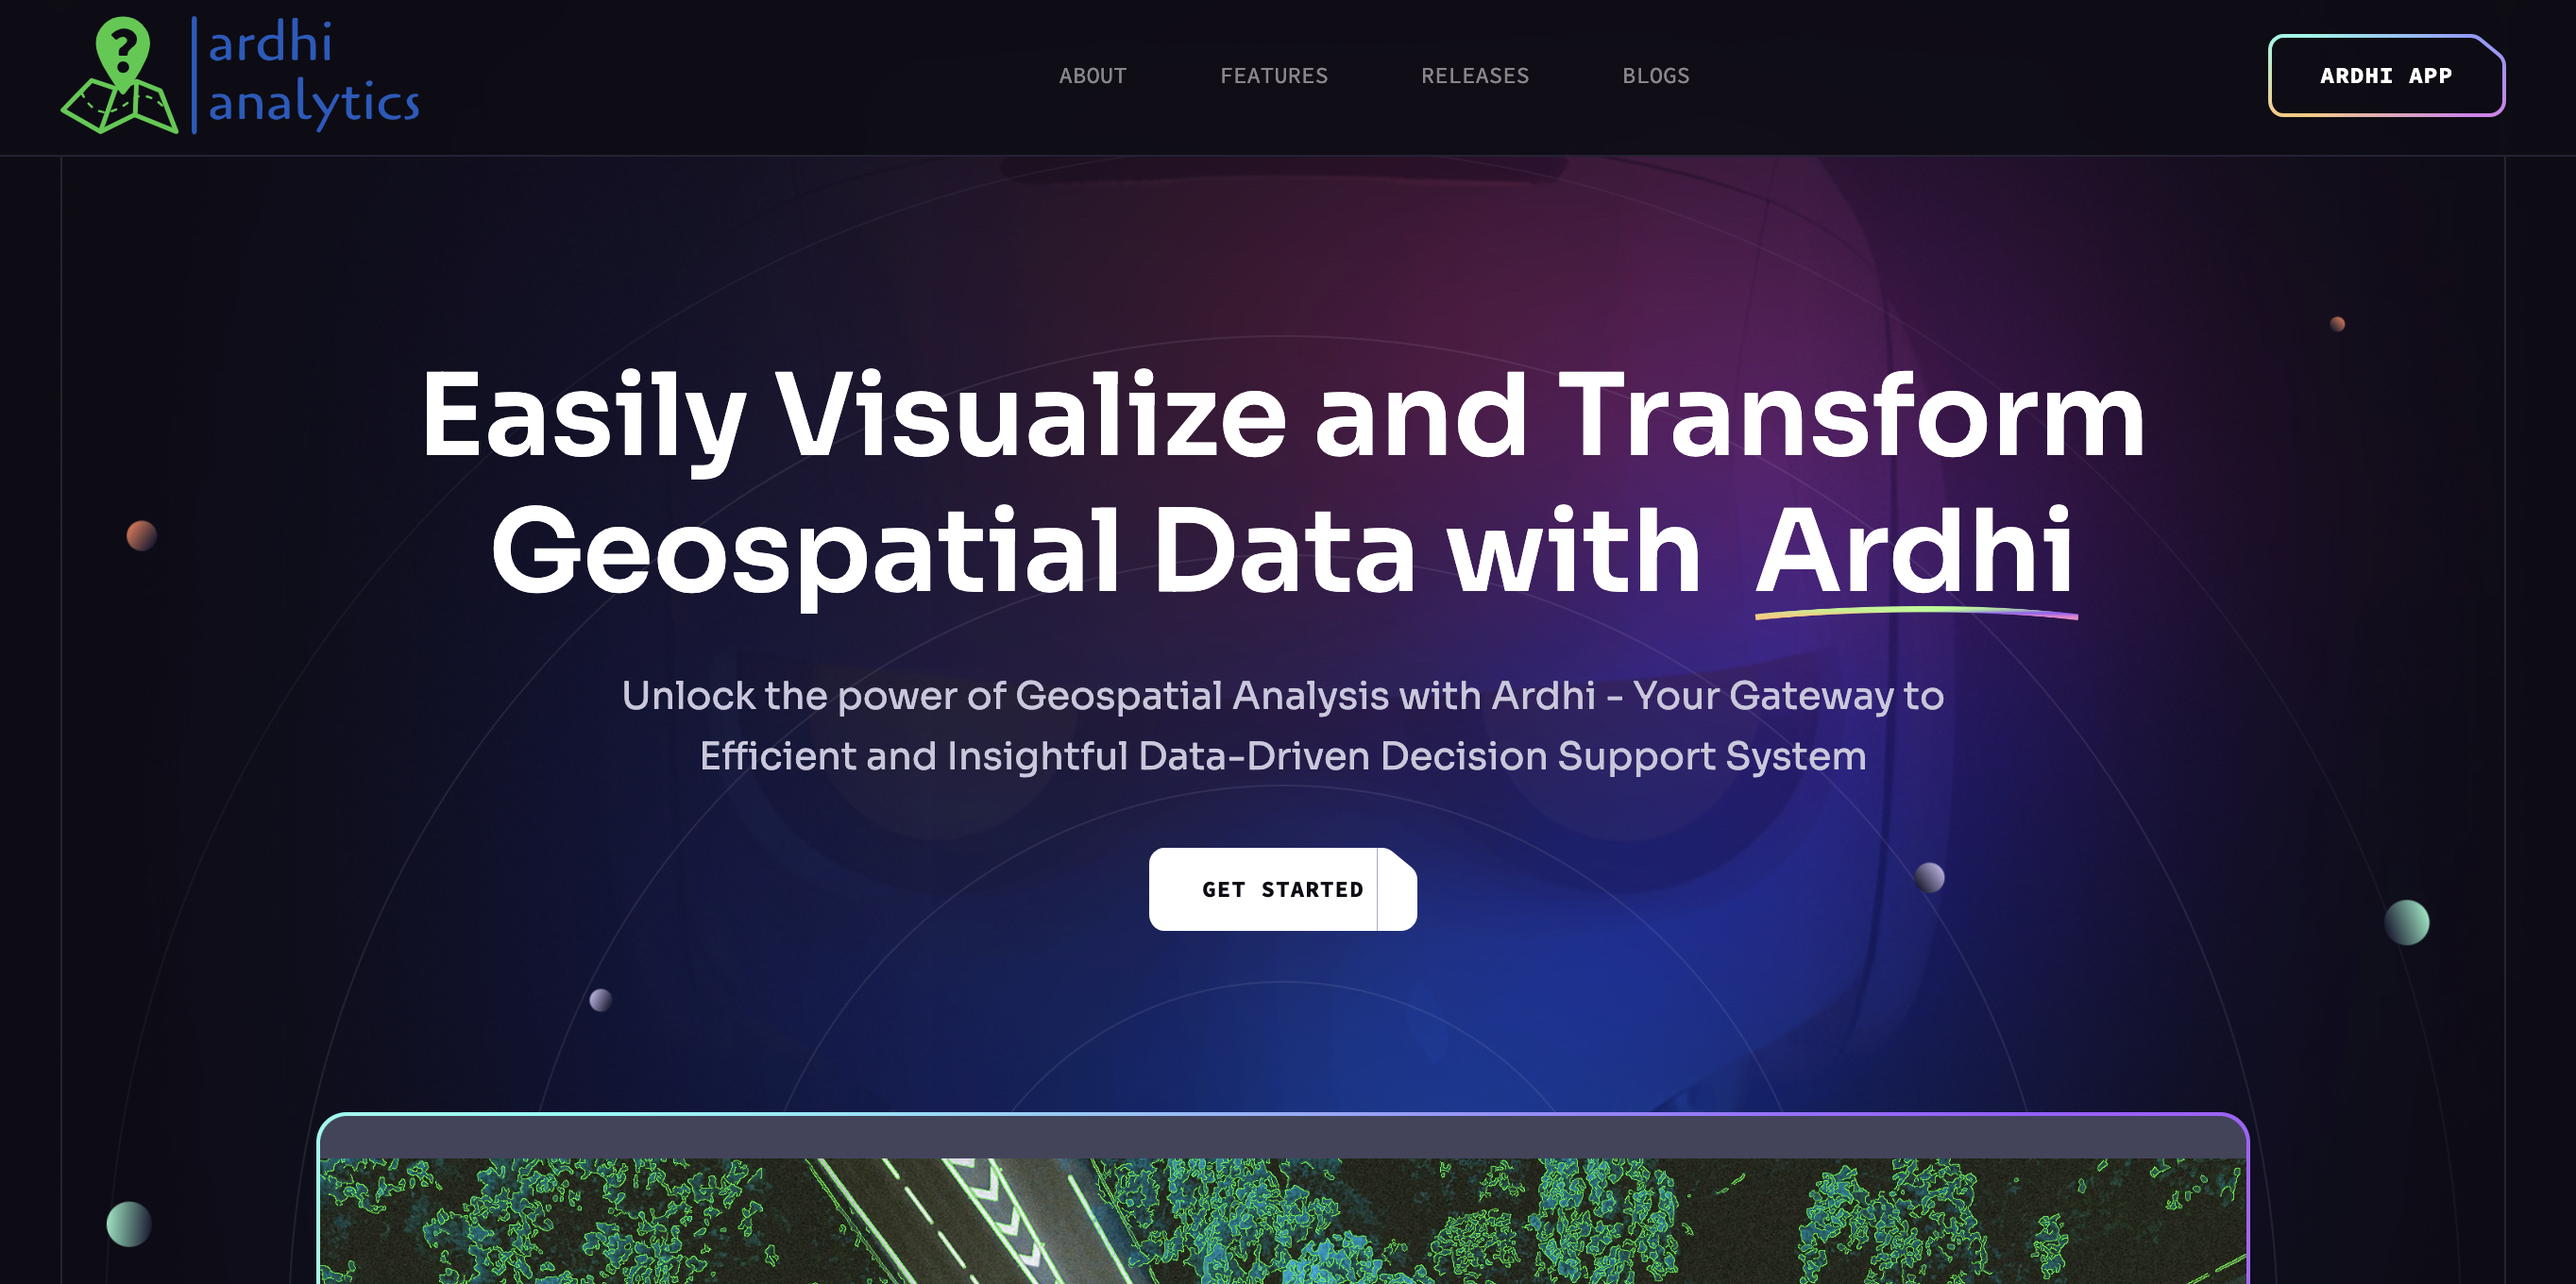
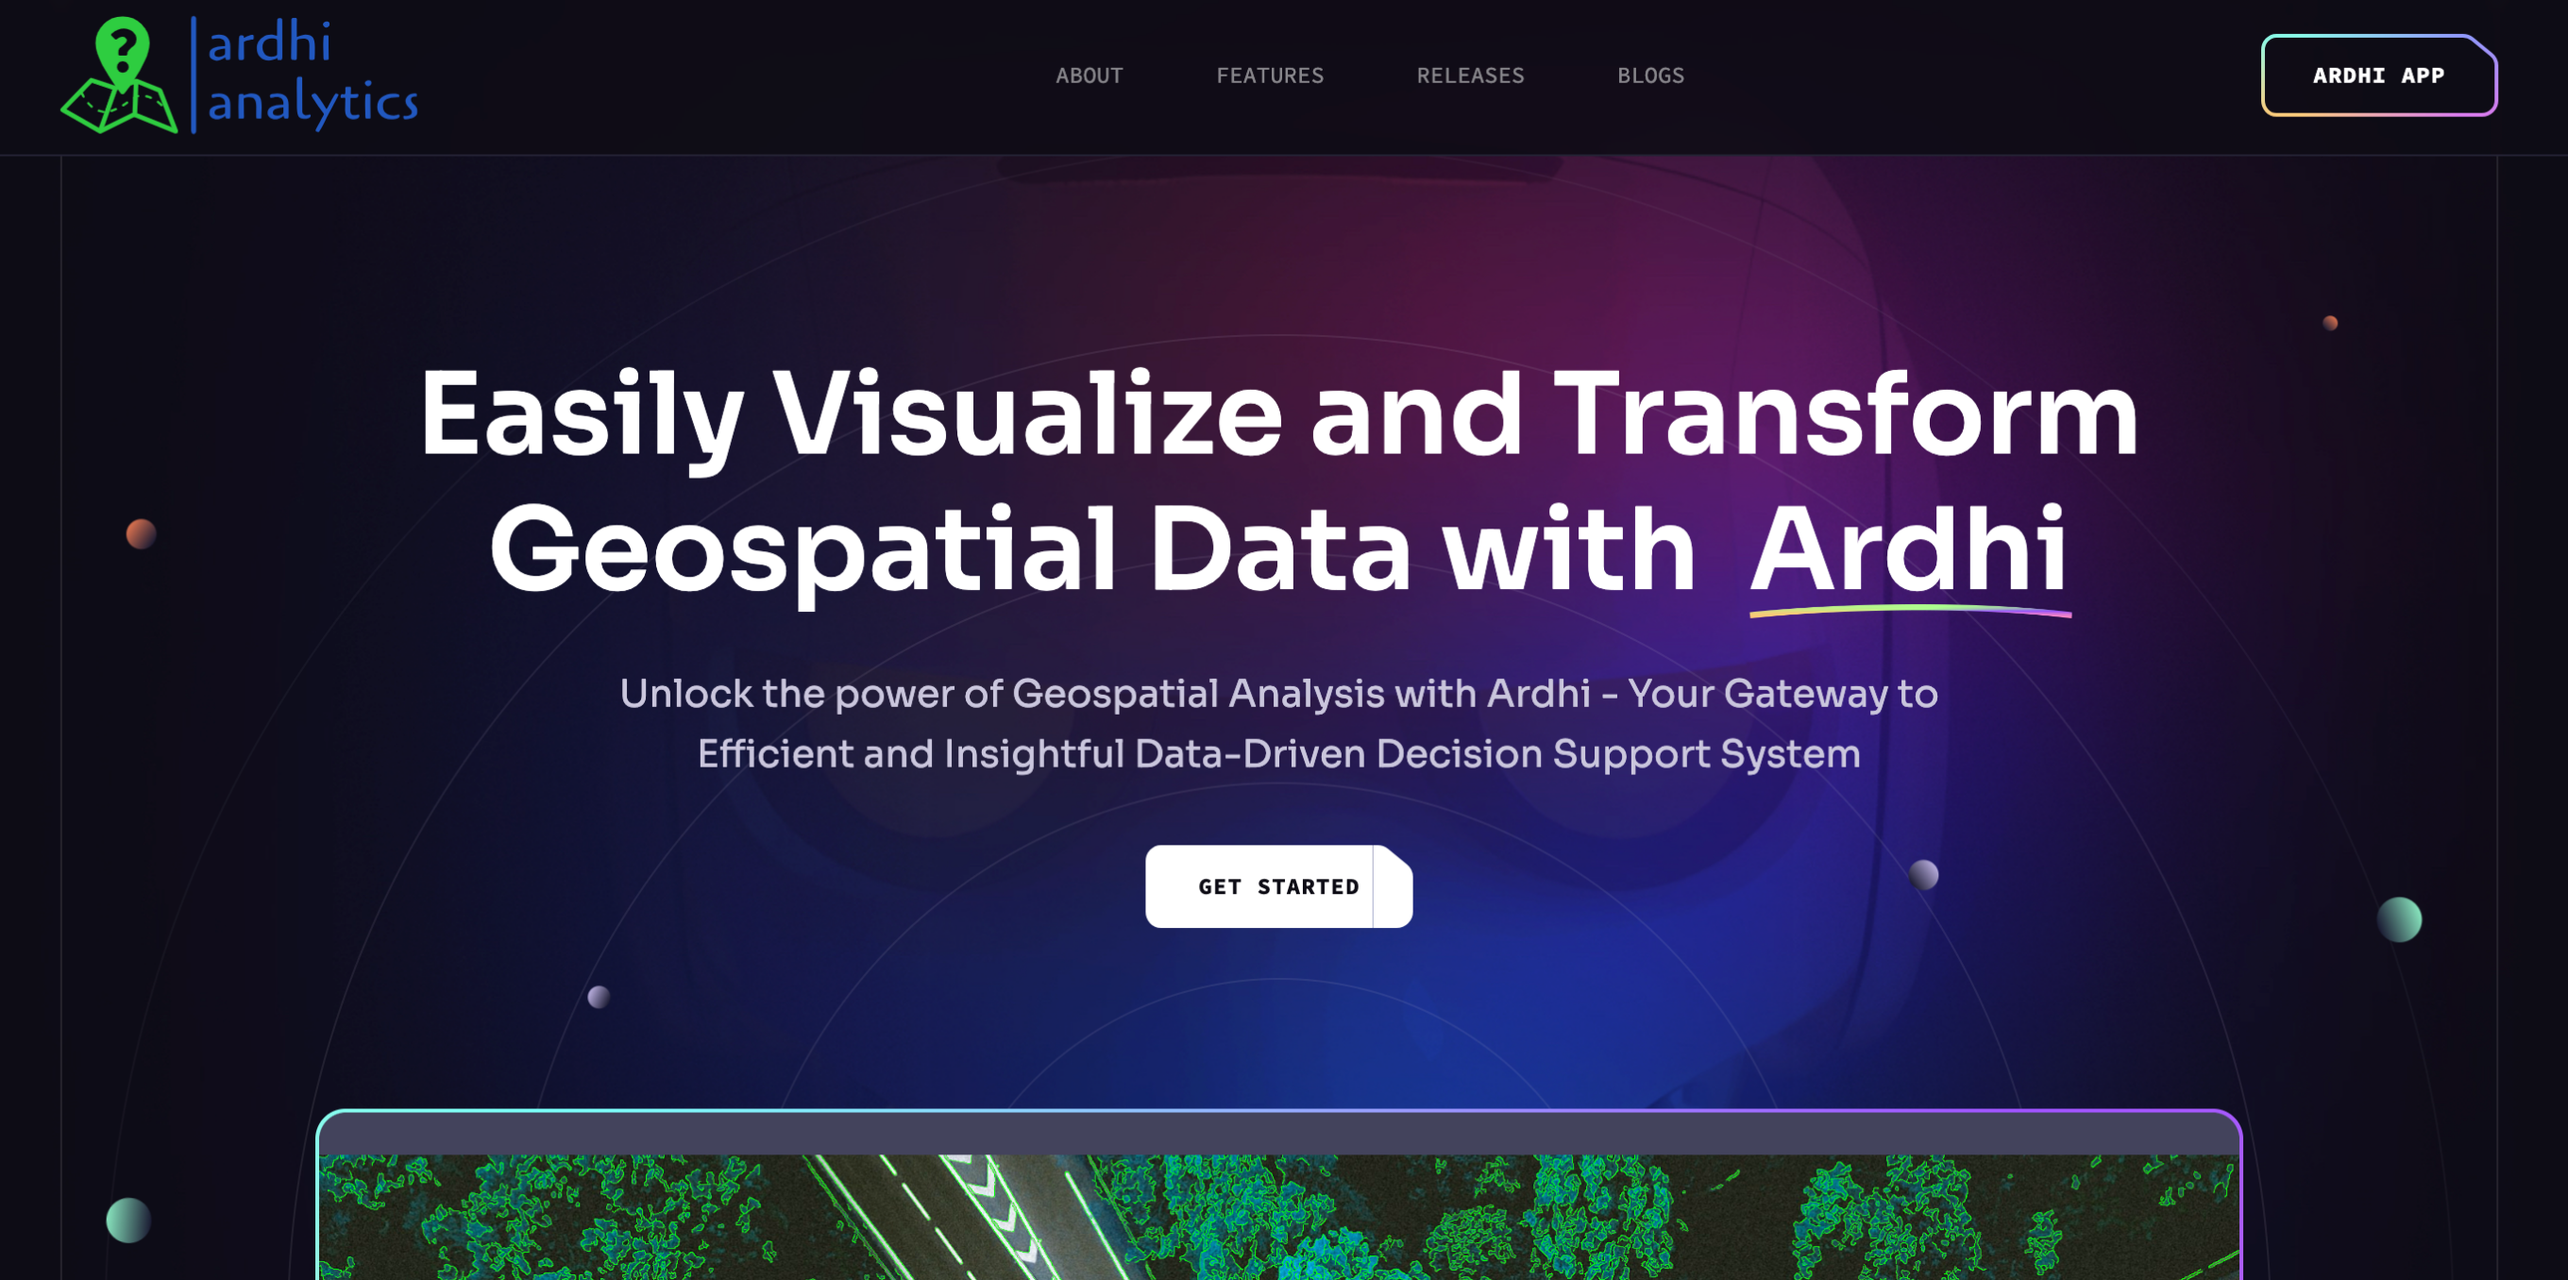
Project edits

diff --git a/src/app/globals.css b/src/app/globals.css
@@ -190,7 +190,7 @@ footer {
   backdrop-filter: blur(3px);
   font-size: 14px;
   line-height: 14px;
-  height: 8.5rem;
+  height: 6rem;
 }
 
 footer::before {
@@ -227,14 +227,6 @@ header::before {
   opacity: 0.2;
 }
 
-/* header {
-  position: fixed;
-  top: 0;
-  left: 0;
-  right: 0;
-  height: 4.5rem;
-
-} */
 /*------------------------------- Timeline & Experience ------------------------------*/
 
 .timeline {
@@ -300,6 +292,89 @@ header::before {
   transform-origin: 0%;
 }
 /*------------------------------- font class  ------------------------------- */
+/*  -------------- The font --------------------- */
+/*  -- Dancing Script -- */
+.dancing-script-regular {
+  font-family: "Dancing Script", cursive;
+  font-optical-sizing: auto;
+  font-weight: 400;
+  font-style: normal;
+}
+.dancing-script-medium {
+  font-family: "Dancing Script", cursive;
+  font-optical-sizing: auto;
+  font-weight: 500;
+  font-style: normal;
+}
+.dancing-script-semibold {
+  font-family: "Dancing Script", cursive;
+  font-optical-sizing: auto;
+  font-weight: 600;
+  font-style: normal;
+}
+.dancing-script-bold {
+  font-family: "Dancing Script", cursive;
+  font-optical-sizing: auto;
+  font-weight: 700;
+  font-style: normal;
+}
+/*  -- Lora  -- */
+.lora-regular {
+  font-family: "Lora", serif;
+  font-optical-sizing: auto;
+  font-weight: 400;
+  font-style: normal;
+}
+.lora-medium {
+  font-family: "Lora", serif;
+  font-optical-sizing: auto;
+  font-weight: 500;
+  font-style: normal;
+}
+.lora-semibold {
+  font-family: "Lora", serif;
+  font-optical-sizing: auto;
+  font-weight: 600;
+  font-style: normal;
+}
+.lora-bold {
+  font-family: "Lora", serif;
+  font-optical-sizing: auto;
+  font-weight:700;
+  font-style: normal;
+}
+/*  -- Space Grotesk -- */
+.space-grotesk-light {
+  font-family: "Space Grotesk", sans-serif;
+  font-optical-sizing: auto;
+  font-weight: 300;
+  font-style: normal;
+}
+.space-grotesk-regular {
+  font-family: "Space Grotesk", sans-serif;
+  font-optical-sizing: auto;
+  font-weight: 400;
+  font-style: normal;
+}
+.space-grotesk-medium {
+  font-family: "Space Grotesk", sans-serif;
+  font-optical-sizing: auto;
+  font-weight: 500;
+  font-style: normal;
+}
+.space-grotesk-semibold {
+  font-family: "Space Grotesk", sans-serif;
+  font-optical-sizing: auto;
+  font-weight: 600;
+  font-style: normal;
+}
+.space-grotesk-bold {
+  font-family: "Space Grotesk", sans-serif;
+  font-optical-sizing: auto;
+  font-weight: 700;
+  font-style: normal;
+}
+/*  -- IBM Plex -- */
 .ibm-plex-mono-thin {
   font-family: "IBM Plex Mono", monospace;
   font-weight: 100;
@@ -383,7 +458,7 @@ header::before {
   font-weight: 700;
   font-style: italic;
 }
-
+/*  -------------- End --------------------- */
 
 @layer base {
   * {

diff --git a/src/app/competence/page.tsx b/src/app/competence/page.tsx
@@ -1,14 +1,12 @@
 "use client";
 
 import React from "react";
-import { motion, useScroll } from "framer-motion";
 
 import Header from "@/Components/Shared/Header";
 import Footer from "@/Components/Shared/Footer";
 import { competence } from "@/Components/Constant";
 
 const Competence: React.FC = () => {
-    const { scrollYProgress } = useScroll();
 
     return (
 
@@ -20,12 +18,6 @@ const Competence: React.FC = () => {
 
             {/* Page Content */}
             <div className="flex-grow pt-16 pb-16 place-content-center">
-
-                {/* Progress Bar */}
-                <motion.div
-                    className="progress-bar fixed top-16 left-0 w-full h-1 bg-mydarkpurple z-40"
-                    style={{ scaleX: scrollYProgress }}
-                />
 
                 {/* Main Content */}
                 <div className="p-4 sm:p-8 pb-32 mx-8 ">
@@ -40,15 +32,9 @@ const Competence: React.FC = () => {
                             tailored to complex challenges.
                         </p>
                     </div>
-                    {/*  <p className="text-base mb-6 mx-16">
-                            My expertise spans diverse fields. Each area represents a cornerstone of my professional journey,
-                            reflecting my commitment to mastering tools, technologies, and
-                            strategies that drive innovation and create meaningful solutions
-                            tailored to complex challenges.
-                        </p> */}
 
                     {/* Competence Cards */}
-                    <div className="grid grid-cols-1 md:grid-cols-5 gap-6  md:h-72 mb-4">
+                    <div className="grid grid-cols-1 md:grid-cols-3 gap-6  md:h-72 ">
                         {competence.map((item) => (
                             <div
                                 key={item.id}
@@ -56,10 +42,10 @@ const Competence: React.FC = () => {
                                 flex flex-col justify-between p-4 "
                             >
                                 <h2 className="text-lg font-bold uppercase">{item.name}</h2>
-                                <p className="text-sm mt-2">{item.description}</p>
+                                <p className="text-sm ">{item.description}</p>
                                 <a
                                     href={item.href}
-                                    className=" mt-4  font-bold hover:underline  underline-offset-4 text-xs uppercase "
+                                    className=" mt-4 font-bold hover:underline  underline-offset-4 text-xs uppercase "
                                 >
                                     More info...
                                 </a>

diff --git a/src/app/projects/page.tsx b/src/app/projects/page.tsx
@@ -29,7 +29,7 @@ const toolColors: Record<string, { bg: string; text: string }> = {
 
 
 const ProjectCard: React.FC<{ project: typeof projectsNavigation[0]; onToolClick: (tool: string) => void }> = ({ project, onToolClick }) => (
-    <div className="mt-8 border border-dashed border-gray-500/[0.5] rounded p-2 shadow-lg hover:shadow-purple-500/50 transition-shadow duration-400">
+    <div className="mt-4 border border-dashed border-gray-500/[0.5] rounded p-2 shadow-lg hover:shadow-purple-500/50 transition-shadow duration-400">
         <Image
             src={project.image}
             alt={project.name}
@@ -38,7 +38,7 @@ const ProjectCard: React.FC<{ project: typeof projectsNavigation[0]; onToolClick
             height={100} // Adjust the value as per your layout needs
             className="w-full h-20 object-cover rounded-md mb-4 opacity-80"
         />
-        <h2 className="text-lg font-bold mb-2 ibm-plex-mono-semibold opacity-80">{project.name}</h2>
+        <h2 className="text-base font-bold mb-2 ibm-plex-mono-semibold opacity-80">{project.name}</h2>
         <div className="flex flex-wrap gap-2 mb-2 ">
             {project.category.map((cat, index) => (
                 <span
@@ -49,22 +49,22 @@ const ProjectCard: React.FC<{ project: typeof projectsNavigation[0]; onToolClick
                 </span>
             ))}
         </div>
-        <p className="text-xs mb-4 text-gray-500 dark:text-gray-400">{project.subcategory}</p>
-        <div className="flex flex-wrap gap-2 mb-2">
+        <p className="text-xs mb-4 dancing-script-semibold  text-gray-500 dark:text-gray-400">{project.subcategory}</p>
+        <div className="flex flex-wrap gap-3 mb-2">
             {project.tools.map((tool, index) => {
                 const color = toolColors[tool] || { bg: "bg-gray-100", text: "text-gray-800" };
                 return (
                     <button
                         key={index}
                         onClick={() => onToolClick(tool)}
-                        className={`px-2 py-1 text-xs font-medium rounded ${color.bg} ${color.text} cursor-pointer`}
+                        className={`px-2 py-1 text-xs rounded ${color.bg} ${color.text} cursor-pointer`}
                     >
                         {tool}
                     </button>
                 );
             })}
         </div>
-        <div className="flex justify-between">
+        <div className="flex justify-between mx-2">
             {/* GitHub Link */}
             {project.git_href ? (
                 <a

diff --git a/src/Components/Shared/ThemeContext.js b/src/Components/Shared/ThemeContext.js
@@ -1,36 +1,38 @@
 "use client";
 
-import React, { createContext, useState, useContext, useEffect } from 'react';
+import React, { createContext, useState, useContext, useEffect } from "react";
 
 const ThemeContext = createContext();
 
-export const ThemeProvider = ({ children }) => {
-    const [theme, setTheme] = useState(() => {
-        if (typeof window !== 'undefined') {
-            return localStorage.getItem('theme') || 'light';
-        }
-        return 'light';
-    });
-
-    const toggleTheme = () => {
-        const newTheme = theme === 'light' ? 'dark' : 'light';
-        setTheme(newTheme);
-        document.documentElement.setAttribute('data-theme', newTheme);
-        localStorage.setItem('theme', newTheme);
-    };
-
-    // Sync theme with localStorage and document root on mount
-    useEffect(() => {
-        if (typeof window !== 'undefined') {
-            document.documentElement.setAttribute('data-theme', theme);
-        }
-    }, [theme]);
-
-    return (
-        <ThemeContext.Provider value={{ theme, toggleTheme }}>
-            {children}
-        </ThemeContext.Provider>
-    );
+export const useTheme = () => {
+  const context = useContext(ThemeContext);
+  if (!context) {
+    throw new Error("useTheme must be used within a ThemeProvider");
+  }
+  return context;
 };
 
-export const useTheme = () => useContext(ThemeContext);
+export const ThemeProvider = ({ children }) => {
+  const [theme, setTheme] = useState("light");
+
+  const toggleTheme = () => {
+    const newTheme = theme === "light" ? "dark" : "light";
+    setTheme(newTheme);
+    document.documentElement.setAttribute("data-theme", newTheme);
+    localStorage.setItem("theme", newTheme);
+  };
+
+  useEffect(() => {
+    if (typeof window !== "undefined") {
+      const storedTheme = localStorage.getItem("theme") || "light";
+      setTheme(storedTheme);
+      document.documentElement.setAttribute("data-theme", storedTheme);
+    }
+  }, []);
+
+  return (
+    <ThemeContext.Provider value={{ theme, toggleTheme }}>
+      {children}
+    </ThemeContext.Provider>
+  );
+};

diff --git a/src/Components/Shared/Footer.tsx b/src/Components/Shared/Footer.tsx
@@ -16,9 +16,9 @@ import DevIcon from "../../images/socialMedia/Dev.svg; */
 
 const Footer: React.FC = () => {
     return (
-        <footer className=" footer flex-col gap-6 border-t border-gray-500/[0.25]">
+        <footer className=" footer flex-col gap-2 border-t border-gray-500/[0.25]">
             {/* Navigation Links */}
-            <nav className="flex space-x-4">
+            {/*  <nav className="flex space-x-4">
                 {navigation.map((item) => (
                     <Link
                         key={item.id}
@@ -28,7 +28,7 @@ const Footer: React.FC = () => {
                         {item.name}
                     </Link>
                 ))}
-            </nav>
+            </nav> */}
 
             {/* Social Media Links */}
             <div className="flex gap-4">
@@ -71,7 +71,7 @@ const Footer: React.FC = () => {
             </div>
 
             {/* Copyright Text */}
-            <p className=" text-sm">&copy; {new Date().getFullYear()} Ochwada. All rights reserved.</p>
+            <p className=" text-xs mt-1">&copy; {new Date().getFullYear()} Ochwada. All rights reserved.</p>
         </footer>
     );
 };

diff --git a/src/Components/Shared/Header.tsx b/src/Components/Shared/Header.tsx
@@ -7,12 +7,11 @@ import ThemeToggleButton from './ThemeToggleButton';
 import { navigation } from '@/Components/Constant';
 import Image from 'next/image';
 import MobileNav from './MobileNav';
-import { useTheme } from './ThemeContext';
 
 const Header: React.FC = () => {
     const [isMobileNavOpen, setIsMobileNavOpen] = useState(false);
     const pathname = usePathname();
-    const { theme } = useTheme();
+
 
     const toggleMobileNav = () => {
         setIsMobileNavOpen(!isMobileNavOpen);
@@ -22,7 +21,7 @@ const Header: React.FC = () => {
         <header
             className=" fixed top-0 left-0 w-full z-50 border-b border-gray-500/[0.25] "
         >
-            <div className="flex items-center justify-between max-w-7xl mx-auto p-4">
+            <div className="flex items-center justify-between max-w-7xl mx-auto px-4 py-1">
                 {/* Logo */}
                 <div className="flex items-center">
                     <Link href="/">

diff --git a/src/app/layout.tsx b/src/app/layout.tsx
@@ -1,4 +1,3 @@
-// layout.tsx
 import type { Metadata } from "next";
 
 import "./globals.css";
@@ -11,18 +10,16 @@ export const metadata: Metadata = {
 
 export default function RootLayout({
   children,
-}: Readonly<{
-  children: React.ReactNode;
-}>) {
+}: {
+  readonly children: React.ReactNode;
+}) {
   return (
-    <html lang="en" data-theme="dark">
+    <html lang="en">
       <head>
         <link rel="icon" href="/favicon.ico" type="image/x-icon" />
       </head>
       <body className="antialiased font-grotesk">
-        <ThemeProvider>
-          {children}
-        </ThemeProvider>
+        <ThemeProvider>{children}</ThemeProvider>
       </body>
     </html>
   );

diff --git a/src/Components/Constant/index.js b/src/Components/Constant/index.js
@@ -37,7 +37,7 @@ export const projectsNavigation = [
         //web_href: "https://ardhi.de/",
         href: "https://ardhi.slab.com/posts/what-is-ardhi-project-z0d01cz8?shr=EZiIPCLM0lt9h1C_2osUBQA_",
         image: '/assets/ardhi_app.png',
-        category: ["Web Development |", "Project Management"],
+        category: ["Web Development", "Project Management"],
         subcategory: "Frontend",
         tools: ["#React", "#TailwindCSS", "#NextJS"],
     },
